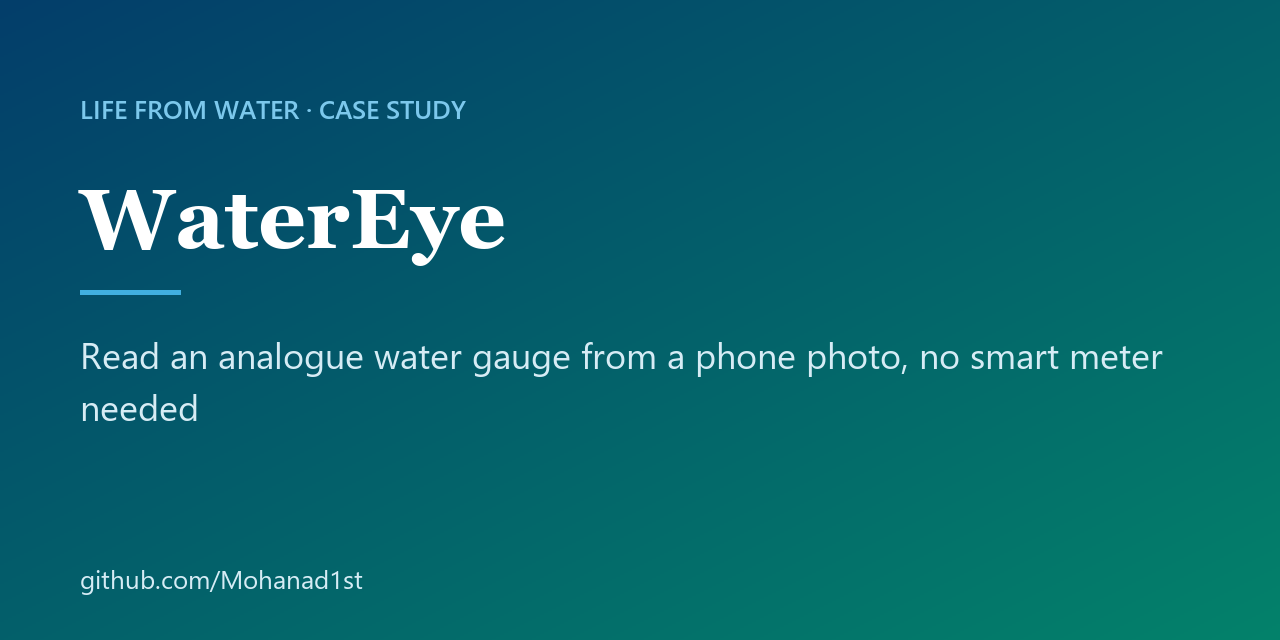
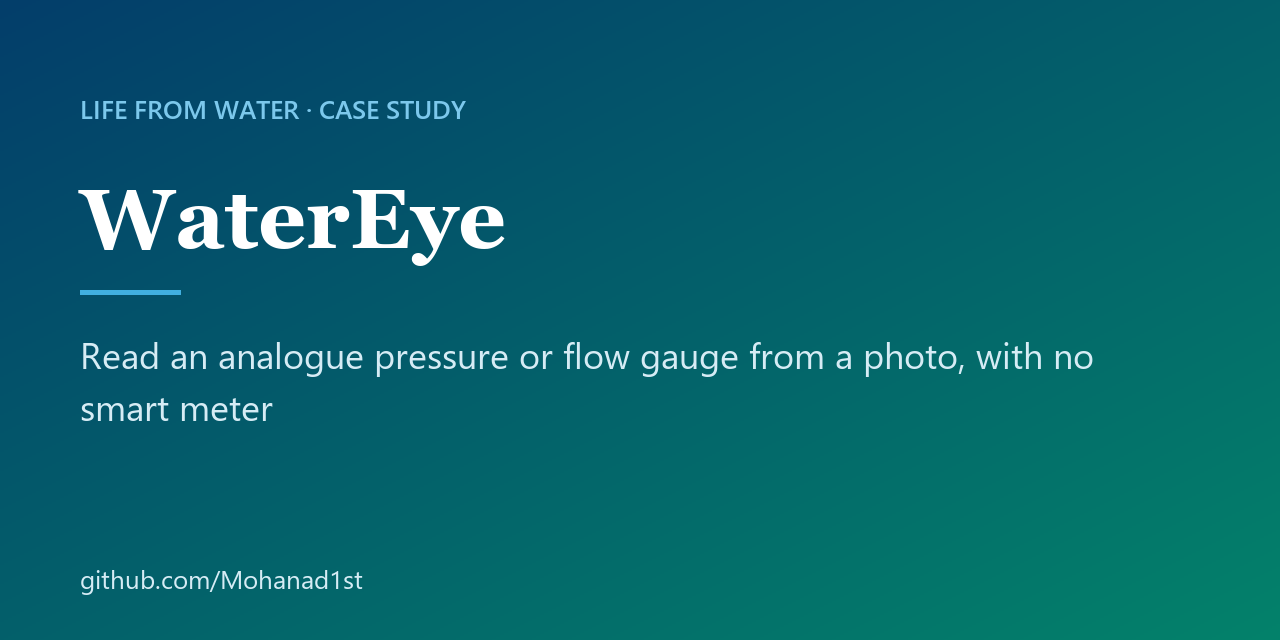
docs: rewrite case study in plain first-person voice
Every factual line checked against its source; overstated or unsourced lines removed or corrected.

Changed region(s): [[0.2812, 0.5312, 0.9062, 0.5938], [0.0625, 0.625, 0.2188, 0.6562]]

diff --git a/README.md b/README.md
@@ -1,60 +1,60 @@
 <p align="center"><img src="assets/banner.svg" alt="WaterEye" width="100%"></p>
 
-<p align="center"><b>Read an analogue water gauge from a phone photo, no smart meter needed</b></p>
+<p align="center"><b>Read an analogue pressure or flow gauge from a photo, with no smart meter</b></p>
 
-<p align="center" dir="rtl" lang="ar">قراءة مقاييس الضغط والتدفق التناظرية من صورة بالهاتف، دون الحاجة إلى عدّادات ذكية</p>
+<p align="center" dir="rtl" lang="ar">قراءة مقاييس الضغط والتدفق التناظرية من صورة، دون الحاجة إلى عدّادات ذكية</p>
 
 <p align="center"><b>Status:</b> Field pilot · one village since June 2026 · accuracy not yet measured &nbsp;·&nbsp; <b>Built by</b> <a href="https://github.com/Mohanad1st">Mohannad Hesham</a></p>
 
-> Case study only: the source is private because it runs on live field sites and is still a pilot. Walkthrough on request.
+> This is a case study. The source is private because it runs at a live field site and is still a pilot.
 
-## The problem
+## Why we built it
 
-At rural water sites in Egypt, pressure and flow are still shown on analogue dials, and someone has to walk to each one, read the needle and write the number down. Smart meters would fix that, but they cost more than most small systems can carry. WaterEye tests a cheaper route: a field operator points a phone or a fixed camera at the dial, and the system turns the photo into a logged reading.
+At our rural water sites, pressure and flow still show on analogue dials. Someone has to walk to each one, read the needle and write it down. When we priced sensors for our own small village plants, they cost more than the plant itself. So we're testing a cheaper route: point a camera at the dial and turn the picture into a reading.
 
 ## What it does
 
-- Finds each gauge in a photo and crops it, even when several dials are in one shot
-- Reads the needle position against the dial's minimum and maximum marks and turns it into a number
-- Works from a phone photo or a snapshot from a fixed site camera
-- A dashboard prototype for stations, alerts and history (not yet connected to live readings)
+- Finds each gauge in a camera frame and crops it, even when several dials are in one shot.
+- Reads the needle against the dial's minimum and maximum marks, and turns the angle into a number.
+- Works from a phone photo or a fixed site camera.
+- A dashboard prototype for stations, alerts and history. It isn't connected to live readings yet.
 
-## See it
-
-How the work flows:
+## How it works
 
 ```mermaid
 flowchart TD
   accTitle: How a gauge photo becomes a reading
-  accDescr: An operator or a site camera photographs a dial, the system finds and crops each gauge, locates the needle and scale marks, and converts the needle angle into a reading.
-  A[Photo of the dial] --> B[Find and crop gauge]
+  accDescr: A site camera frame is scanned for gauges and each one is cropped, or a phone photo of a single dial is read directly; the needle and scale marks are located and the needle angle becomes a reading.
+  A[Camera frame or photo] --> B[Find and crop gauge]
   B --> C[Locate needle and marks]
   C --> D[Angle to reading]
-  D --> E[(Reading)]
+  D --> E[Reading]
 ```
 
-<sub>Screens are not shown: the dashboard is a prototype without live data, and field photos show real sites.</sub>
+<sub>Screens aren&#x27;t shown: the dashboard is a prototype without live data, and field photos show real sites.</sub>
 
-## Built with
+## What it's built on
 
 Python · YOLO-based detection · geometric needle reading (not OCR) · a web dashboard prototype with role-based access
 
-## Built responsibly
+## Safeguards
 
-- Honest status first: one village, since June 2026, and accuracy has not been measured yet
-- The dashboard prototype has role-based access for admins, engineers and operators, with row-level rules switched on
-- Readings are treated as numbers to check, not decisions, until accuracy is measured against manual readings
+- The dashboard prototype has roles for admins, engineers and operators, with row-level access rules switched on.
 
-## What it deliberately doesn't do
+## What's not solved yet
 
-- It is not a validated metering system yet. Until accuracy is measured against manual readings, it supports people rather than replacing them.
-- It does not control pumps or valves; it only reads dials.
+- Accuracy hasn't been measured, so a reading should be checked against a manual one. Readings aren't stored yet.
+
+## What it doesn't do
+
+- It's not a validated metering system yet.
+- It doesn't control pumps or valves. It only reads dials.
 
 ## More from Life From Water
 
 - [Ameen](https://github.com/Mohanad1st/ameen-showcase) — A finance desk you talk to, built to stop donation money being misfiled
-- [LFW HR System](https://github.com/Mohanad1st/lfw-hr-system-showcase) — Attendance, leave, overtime and approvals for a field NGO, in Arabic and English
-- [Life From Water — donation platform](https://github.com/Mohanad1st/lifefromwater-website-showcase) — Donations and impact you can check, for a water-access NGO in rural Egypt
+- [LFW HR System](https://github.com/Mohanad1st/lfw-hr-system-showcase) — Attendance, leave, overtime and approvals for our field staff, in Arabic and English
+- [Life From Water: donation platform](https://github.com/Mohanad1st/lifefromwater-website-showcase) — A donation platform in the making, with impact you can check, for our water-access work in rural Egypt
 - [Opportunity Studio](https://github.com/Mohanad1st/opportunity-studio-showcase) — An evidence-first pipeline for grants, fellowships and tenders
 
 ---
